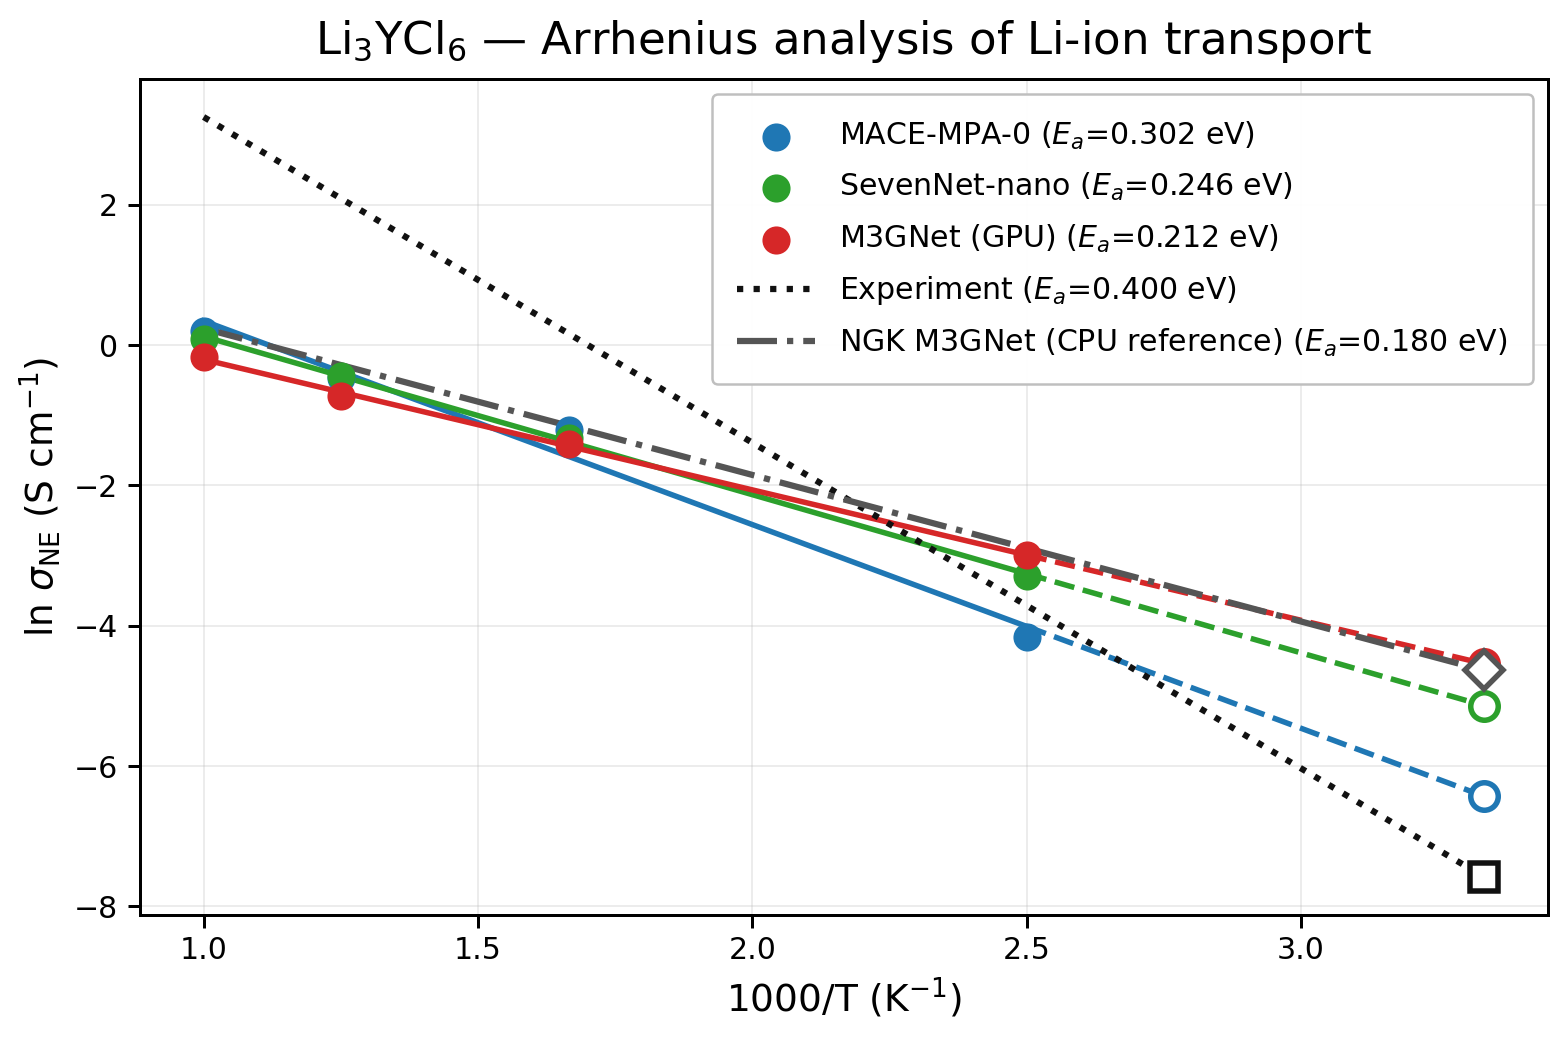
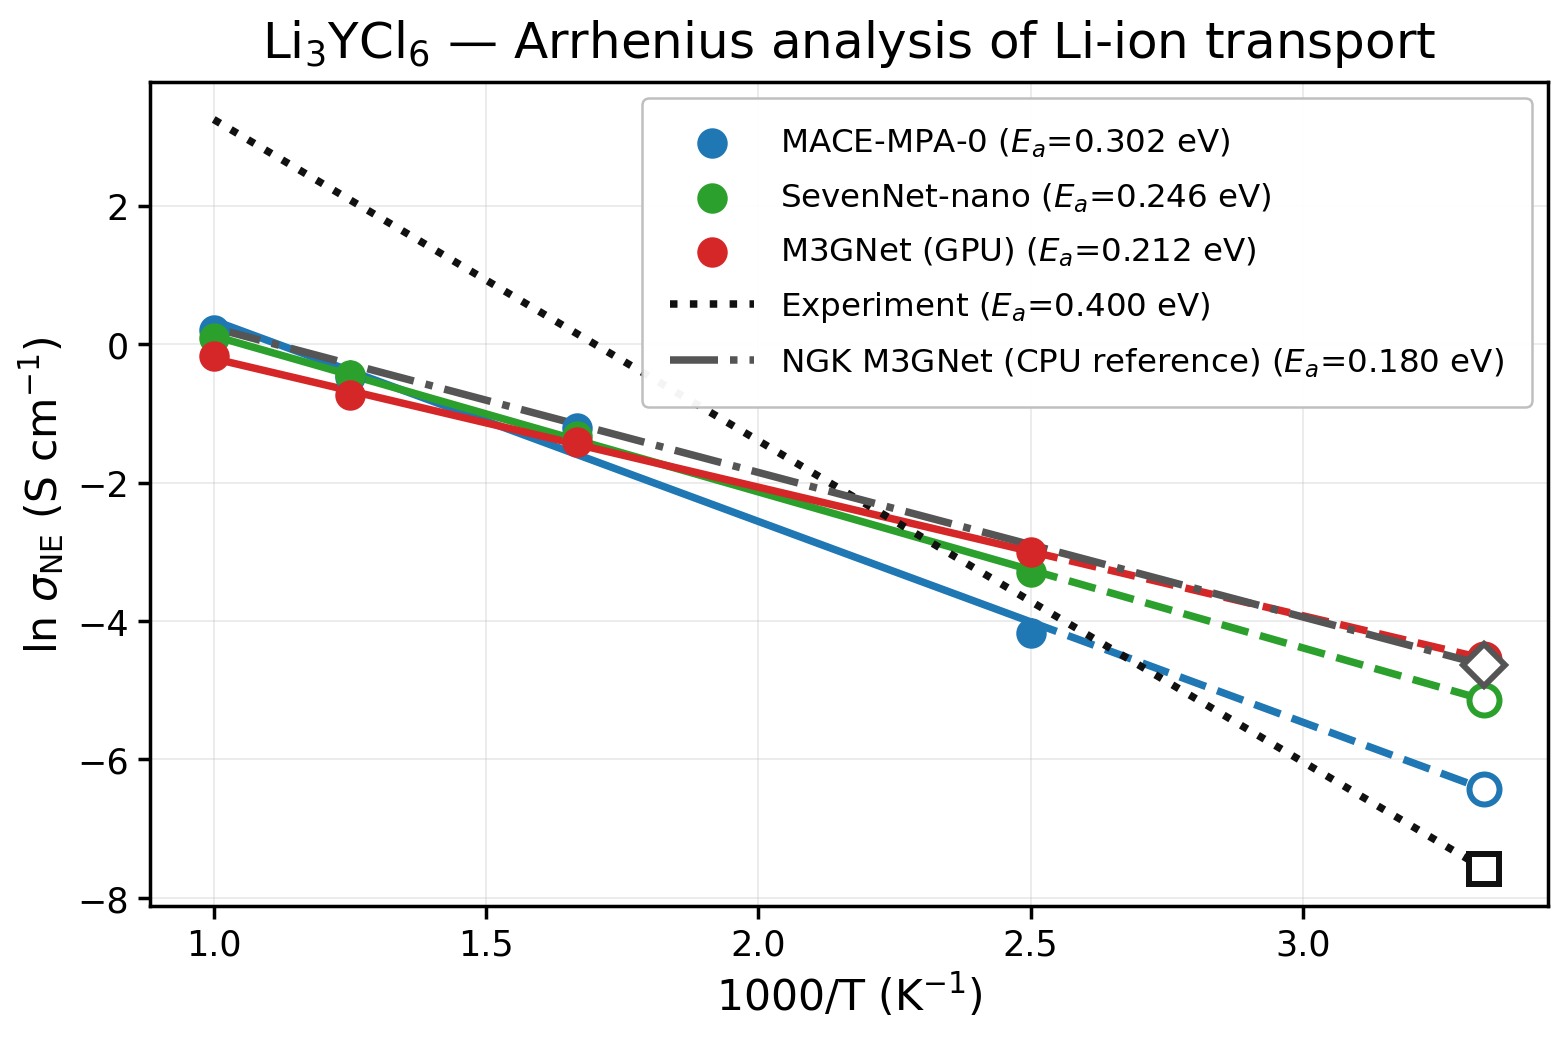
Emphasize Arrhenius lines and typography

diff --git a/src/li_research/analysis/arrhenius/plot_li3ycl6_arrhenius_midterm.py b/src/li_research/analysis/arrhenius/plot_li3ycl6_arrhenius_midterm.py
@@ -22,13 +22,13 @@ for name, sigma, ea, color in models:
     y = np.log(sigma)
     slope, intercept = np.polyfit(x, y, 1)
     xx = np.linspace(x.min(), x.max(), 200)
-    ax.plot(xx, slope * xx + intercept, color=color, lw=2.2)
-    ax.scatter(x, y, color=color, s=105, zorder=3,
+    ax.plot(xx, slope * xx + intercept, color=color, lw=3.0)
+    ax.scatter(x, y, color=color, s=125, zorder=3,
                label=fr"{name} ($E_a$={ea:.3f} eV)")
     x300 = 1000.0 / 300.0
     y300 = slope * x300 + intercept
-    ax.plot([x.max(), x300], [slope * x.max() + intercept, y300], color=color, lw=2.2, ls="--")
-    ax.plot(x300, y300, marker="o", ms=11, mfc="white", mec=color, mew=2.2)
+    ax.plot([x.max(), x300], [slope * x.max() + intercept, y300], color=color, lw=3.0, ls="--")
+    ax.plot(x300, y300, marker="o", ms=12, mfc="white", mec=color, mew=2.4)
 
 references = [
     ("Experiment", 5.1e-4, 0.400, "#111111", "s", ":"),
@@ -38,17 +38,17 @@ xx = np.linspace(1.0, 1000.0 / 300.0, 250)
 for name, sigma300, ea, color, marker, ls in references:
     y300 = np.log(sigma300)
     yline = y300 - (ea / kB) * (xx / 1000.0 - 1.0 / 300.0)
-    ax.plot(xx, yline, color=color, lw=2.5, ls=ls, label=fr"{name} ($E_a$={ea:.3f} eV)")
-    ax.plot(1000.0 / 300.0, y300, marker=marker, ms=11, mfc="white", mec=color, mew=2.2)
+    ax.plot(xx, yline, color=color, lw=3.0, ls=ls, label=fr"{name} ($E_a$={ea:.3f} eV)")
+    ax.plot(1000.0 / 300.0, y300, marker=marker, ms=12, mfc="white", mec=color, mew=2.4)
 
-ax.set_title(r"Li$_3$YCl$_6$ — Arrhenius analysis of Li-ion transport", fontsize=18, pad=10)
-ax.set_xlabel(r"1000/T (K$^{-1}$)", fontsize=15)
-ax.set_ylabel(r"$\ln\,\sigma_{\mathrm{NE}}$ (S cm$^{-1}$)", fontsize=15)
-ax.tick_params(labelsize=12, width=1.2, length=5)
+ax.set_title(r"Li$_3$YCl$_6$ — Arrhenius analysis of Li-ion transport", fontsize=20, pad=10)
+ax.set_xlabel(r"1000/T (K$^{-1}$)", fontsize=17)
+ax.set_ylabel(r"$\ln\,\sigma_{\mathrm{NE}}$ (S cm$^{-1}$)", fontsize=17)
+ax.tick_params(labelsize=14, width=1.4, length=5)
 for spine in ax.spines.values():
-    spine.set_linewidth(1.2)
+    spine.set_linewidth(1.4)
 ax.grid(True, alpha=0.23)
-ax.legend(fontsize=12.0, loc="upper right",
+ax.legend(fontsize=13.0, loc="upper right",
           frameon=True, edgecolor="#bdbdbd", facecolor="white", framealpha=0.96,
           borderpad=0.85, labelspacing=0.65, handlelength=2.6)
 fig.tight_layout()
@@ -62,29 +62,29 @@ for name, sigma, ea, color in (models[0], models[2]):
     y = np.log(sigma)
     slope, intercept = np.polyfit(x, y, 1)
     xx = np.linspace(x.min(), x.max(), 200)
-    ax2.plot(xx, slope * xx + intercept, color=color, lw=2.2)
-    ax2.scatter(x, y, color=color, s=105, zorder=3,
+    ax2.plot(xx, slope * xx + intercept, color=color, lw=3.0)
+    ax2.scatter(x, y, color=color, s=125, zorder=3,
                 label=fr"{name} ($E_a$={ea:.3f} eV)")
     x300 = 1000.0 / 300.0
     y300 = slope * x300 + intercept
     ax2.plot([x.max(), x300], [slope * x.max() + intercept, y300],
-             color=color, lw=2.2, ls="--")
-    ax2.plot(x300, y300, marker="o", ms=11, mfc="white", mec=color, mew=2.2)
+             color=color, lw=3.0, ls="--")
+    ax2.plot(x300, y300, marker="o", ms=12, mfc="white", mec=color, mew=2.4)
 for name, sigma300, ea, color, marker, ls in references:
     y300 = np.log(sigma300)
     yline = y300 - (ea / kB) * (xx / 1000.0 - 1.0 / 300.0)
-    ax2.plot(xx, yline, color=color, lw=2.5, ls=ls,
+    ax2.plot(xx, yline, color=color, lw=3.0, ls=ls,
              label=fr"{name} ($E_a$={ea:.3f} eV)")
-    ax2.plot(1000.0 / 300.0, y300, marker=marker, ms=11,
-             mfc="white", mec=color, mew=2.2)
-ax2.set_title(r"Li$_3$YCl$_6$ — Arrhenius analysis of Li-ion transport", fontsize=18, pad=10)
-ax2.set_xlabel(r"1000/T (K$^{-1}$)", fontsize=15)
-ax2.set_ylabel(r"$\ln\,\sigma_{\mathrm{NE}}$ (S cm$^{-1}$)", fontsize=15)
-ax2.tick_params(labelsize=12, width=1.2, length=5)
+    ax2.plot(1000.0 / 300.0, y300, marker=marker, ms=12,
+             mfc="white", mec=color, mew=2.4)
+ax2.set_title(r"Li$_3$YCl$_6$ — Arrhenius analysis of Li-ion transport", fontsize=20, pad=10)
+ax2.set_xlabel(r"1000/T (K$^{-1}$)", fontsize=17)
+ax2.set_ylabel(r"$\ln\,\sigma_{\mathrm{NE}}$ (S cm$^{-1}$)", fontsize=17)
+ax2.tick_params(labelsize=14, width=1.4, length=5)
 for spine in ax2.spines.values():
-    spine.set_linewidth(1.2)
+    spine.set_linewidth(1.4)
 ax2.grid(True, alpha=0.23)
-ax2.legend(fontsize=12.0, loc="upper right", frameon=True,
+ax2.legend(fontsize=13.0, loc="upper right", frameon=True,
            edgecolor="#bdbdbd", facecolor="white", framealpha=0.96,
            borderpad=0.85, labelspacing=0.65, handlelength=2.6)
 fig2.tight_layout()
